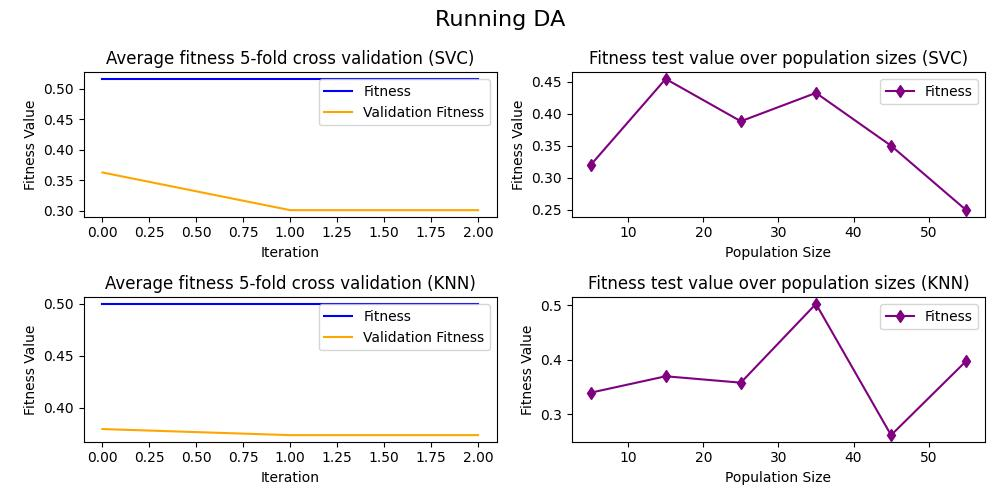
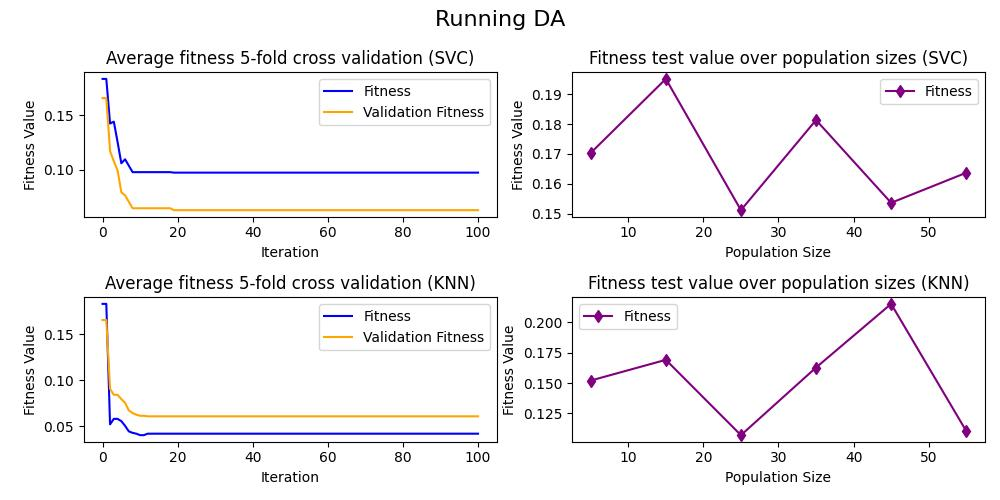
Added first binary version of GWO

diff --git a/src/pyMetaheuristic/algorithm/gwo.py b/src/pyMetaheuristic/algorithm/gwo.py
@@ -23,38 +23,70 @@ def target_function():
 ############################################################################
 
 # Function: Initialize Variables
-def initial_position(pack_size = 5, min_values = [-5,-5], max_values = [5,5], target_function = target_function):
-    position = np.zeros((pack_size, len(min_values)+1))
+def initial_position(pack_size = 5, min_values = [-5,-5], max_values = [5,5], target_function = target_function, target_function_parameters = None):
+    position = np.zeros((pack_size, len(min_values)+2))
     for i in range(0, pack_size):
         for j in range(0, len(min_values)):
              position[i,j] = random.uniform(min_values[j], max_values[j])
-        position[i,-1] = target_function(position[i,0:position.shape[1]-1])
+        target_function_parameters['weights'] = position[i,0:position.shape[1]-2]
+        fitness = target_function(**target_function_parameters)
+        position[i,-1] = fitness['ValFitness']
+        position[i,-2] = fitness['TrainFitness']
     return position
 
 ############################################################################
 
+# Transfer functions S-Shaped
+def sigmoid_threshold(x):
+    threshold = np.random.rand()
+    return 1 if sigmoid(x) > threshold else 0
+
+def sigmoid(x):
+    return 1 / (1 + np.exp(-10*(x-0.5)))
+
+############################################################################
+
+# Transfer functions V-Shaped
+def hiperbolic_tan_threshold(delta_x, x):
+    threshold = np.random.rand()
+    return 1-delta_x if hiperbolic_tan(x) > threshold else delta_x
+
+def hiperbolic_tan(x):
+    return np.abs(np.tanh(x))
+
+############################################################################
+
 # Function: Initialize Alpha
-def alpha_position(dimension = 2, target_function = target_function):
-    alpha = np.zeros((1, dimension + 1))
+def alpha_position(dimension = 2, target_function = target_function, target_function_parameters = None):
+    alpha = np.zeros((1, dimension + 2))
     for j in range(0, dimension):
         alpha[0,j] = 0.0
-    alpha[0,-1] = target_function(alpha[0,0:alpha.shape[1]-1])
+    target_function_parameters['weights'] = alpha[0,0:alpha.shape[1]-2]
+    fitness = target_function(**target_function_parameters)
+    alpha[0,-1] = fitness['ValFitness']
+    alpha[0,-2] = fitness['TrainFitness']
     return alpha
 
 # Function: Initialize Beta
-def beta_position(dimension = 2, target_function = target_function):
-    beta = np.zeros((1, dimension + 1))
+def beta_position(dimension = 2, target_function = target_function, target_function_parameters = None):
+    beta = np.zeros((1, dimension + 2))
     for j in range(0, dimension):
         beta[0,j] = 0.0
-    beta[0,-1] = target_function(beta[0,0:beta.shape[1]-1])
+    target_function_parameters['weights'] = beta[0,0:beta.shape[1]-2]
+    fitness = target_function(**target_function_parameters)
+    beta[0,-1] = fitness['ValFitness']
+    beta[0,-2] = fitness['TrainFitness']
     return beta
 
 # Function: Initialize Delta
-def delta_position(dimension = 2, target_function = target_function):
-    delta =  np.zeros((1, dimension + 1))
+def delta_position(dimension = 2, target_function = target_function, target_function_parameters = None):
+    delta =  np.zeros((1, dimension + 2))
     for j in range(0, dimension):
         delta[0,j] = 0.0
-    delta[0,-1] = target_function(delta[0,0:delta.shape[1]-1])
+    target_function_parameters['weights'] = delta[0,0:delta.shape[1]-2]
+    fitness = target_function(**target_function_parameters)
+    delta[0,-1] = fitness['ValFitness']
+    delta[0,-2] = fitness['TrainFitness']
     return delta
 
 # Function: Updtade Pack by Fitness
@@ -70,7 +102,7 @@ def update_pack(position, alpha, beta, delta):
     return alpha, beta, delta
 
 # Function: Updtade Position
-def update_position(position, alpha, beta, delta, a_linear_component = 2, min_values = [-5,-5], max_values = [5,5], target_function = target_function):
+def update_position(position, alpha, beta, delta, a_linear_component = 2, min_values = [-5,-5], max_values = [5,5], target_function = target_function, target_function_parameters = None, binary = 'x'):
     updated_position = np.copy(position)
     for i in range(0, updated_position.shape[0]):
         for j in range (0, len(min_values)):   
@@ -91,27 +123,36 @@ def update_position(position, alpha, beta, delta, a_linear_component = 2, min_va
             a_delta               = 2*a_linear_component*r1_delta - a_linear_component
             c_delta               = 2*r2_delta            
             distance_delta        = abs(c_delta*delta[0,j] - position[i,j]) 
-            x3                    = delta[0,j] - a_delta*distance_delta                                 
-            updated_position[i,j] = np.clip(((x1 + x2 + x3)/3),min_values[j],max_values[j])     
-        updated_position[i,-1] = target_function(updated_position[i,0:updated_position.shape[1]-1])
+            x3                    = delta[0,j] - a_delta*distance_delta
+            if binary == 's':
+                updated_position[i,j] = np.clip(sigmoid_threshold((x1 + x2 + x3)/3),min_values[j],max_values[j])   
+            else:                           
+                updated_position[i,j] = np.clip(((x1 + x2 + x3)/3),min_values[j],max_values[j])  
+        target_function_parameters['weights'] = updated_position[i,0:updated_position.shape[1]-2]
+        fitness = target_function(**target_function_parameters)
+        updated_position[i,-1] = fitness['ValFitness']
+        updated_position[i,-2] = fitness['TrainFitness']   
+        
     return updated_position
 
 ############################################################################
 
 # GWO Function
-def grey_wolf_optimizer(pack_size = 5, min_values = [-5,-5], max_values = [5,5], iterations = 50, target_function = target_function, verbose = True):    
+def grey_wolf_optimizer(pack_size = 5, min_values = [-5,-5], max_values = [5,5], iterations = 50, target_function = target_function, verbose = True, target_function_parameters = None, binary = 'x'):    
     count    = 0
-    alpha    = alpha_position(dimension = len(min_values), target_function = target_function)
-    beta     = beta_position(dimension  = len(min_values), target_function = target_function)
-    delta    = delta_position(dimension = len(min_values), target_function = target_function)
-    position = initial_position(pack_size = pack_size, min_values = min_values, max_values = max_values, target_function = target_function)
+    alpha    = alpha_position(dimension = len(min_values), target_function = target_function, target_function_parameters = target_function_parameters)
+    beta     = beta_position(dimension  = len(min_values), target_function = target_function, target_function_parameters = target_function_parameters)
+    delta    = delta_position(dimension = len(min_values), target_function = target_function, target_function_parameters = target_function_parameters)
+    position = initial_position(pack_size = pack_size, min_values = min_values, max_values = max_values, target_function = target_function, target_function_parameters = target_function_parameters)
+    fitness_values = []
     while (count <= iterations): 
         if (verbose == True):    
             print('Iteration = ', count, ' f(x) = ', alpha[0][-1])      
         a_linear_component = 2 - count*(2/iterations)
         alpha, beta, delta = update_pack(position, alpha, beta, delta)
-        position           = update_position(position, alpha, beta, delta, a_linear_component = a_linear_component, min_values = min_values, max_values = max_values, target_function = target_function)    
-        count              = count + 1          
-    return alpha
+        position           = update_position(position, alpha, beta, delta, a_linear_component = a_linear_component, min_values = min_values, max_values = max_values, target_function = target_function, target_function_parameters = target_function_parameters, binary = binary)    
+        count              = count + 1  
+        fitness_values.append({'ValFitness': alpha[0,-1], 'TrainFitness': alpha[0,-2]})   
+    return alpha.flatten(), fitness_values
 
 ############################################################################

diff --git a/src/main.py b/src/main.py
@@ -1,5 +1,6 @@
 from pyMetaheuristic.algorithm import grasshopper_optimization_algorithm
 from pyMetaheuristic.algorithm import dragonfly_algorithm
+from pyMetaheuristic.algorithm import grey_wolf_optimizer
 import numpy as np
 import arff
 import matplotlib.pyplot as plt
@@ -52,7 +53,7 @@ def main(notify=False):
     dataset = {'data': samples, 'labels': classes}
 
     k = 5 # F fold cross validation
-    optimizator = dragonfly_algorithm
+    optimizator = grey_wolf_optimizer
 
     # Optimization function's parameters
     if optimizator == grasshopper_optimization_algorithm:
@@ -67,6 +68,14 @@ def main(notify=False):
         parameters = {
             'size': 20,
             'generations': 100,
+            'min_values': [0] * (samples.shape[1]),
+            'max_values': [1] * (samples.shape[1]),
+            'binary': 's', 
+        }
+    elif  optimizator == grey_wolf_optimizer:
+        parameters = {
+            'pack_size': 20,
+            'iterations': 100,
             'min_values': [0] * (samples.shape[1]),
             'max_values': [1] * (samples.shape[1]),
             'binary': 's', 

diff --git a/src/analysis_utils.py b/src/analysis_utils.py
@@ -64,12 +64,12 @@ def k_fold_cross_validation(dataset, optimizator, k=5, parameters=None, target_f
         target_function_parameters['data'] = sample
 
         # Run optimization algorithm on the current fold
-        gao, fitness_values = optimizator(target_function=fitness, target_function_parameters=target_function_parameters, **parameters)
+        result, fitness_values = optimizator(target_function=fitness, target_function_parameters=target_function_parameters, **parameters)
         fitness_each_fold[fold_index] = fitness_values
 
         # Evaluate the model on the test set of the current fold
         target_function_parameters['data'] = sample_test
-        target_function_parameters['weights'] = gao[:-2]
+        target_function_parameters['weights'] = result[:-2]
         test_fitness.append(fitness(**target_function_parameters)['ValFitness'])
 
         fold_index += 1

diff --git a/src/pyMetaheuristic/algorithm/goa.py b/src/pyMetaheuristic/algorithm/goa.py
@@ -107,6 +107,7 @@ def grasshopper_optimization_algorithm(grasshoppers = 5, min_values = [-5,-5], m
         if (verbose == True):
             print('Iteration = ', count,  ' f(x) = ', best_position[0, -1])
         fitness_values.append({'ValFitness': best_position[0, -1], 'TrainFitness': best_position[0, -2]})
+        print(best_position)
     return best_position.flatten(), fitness_values
 
 ############################################################################
